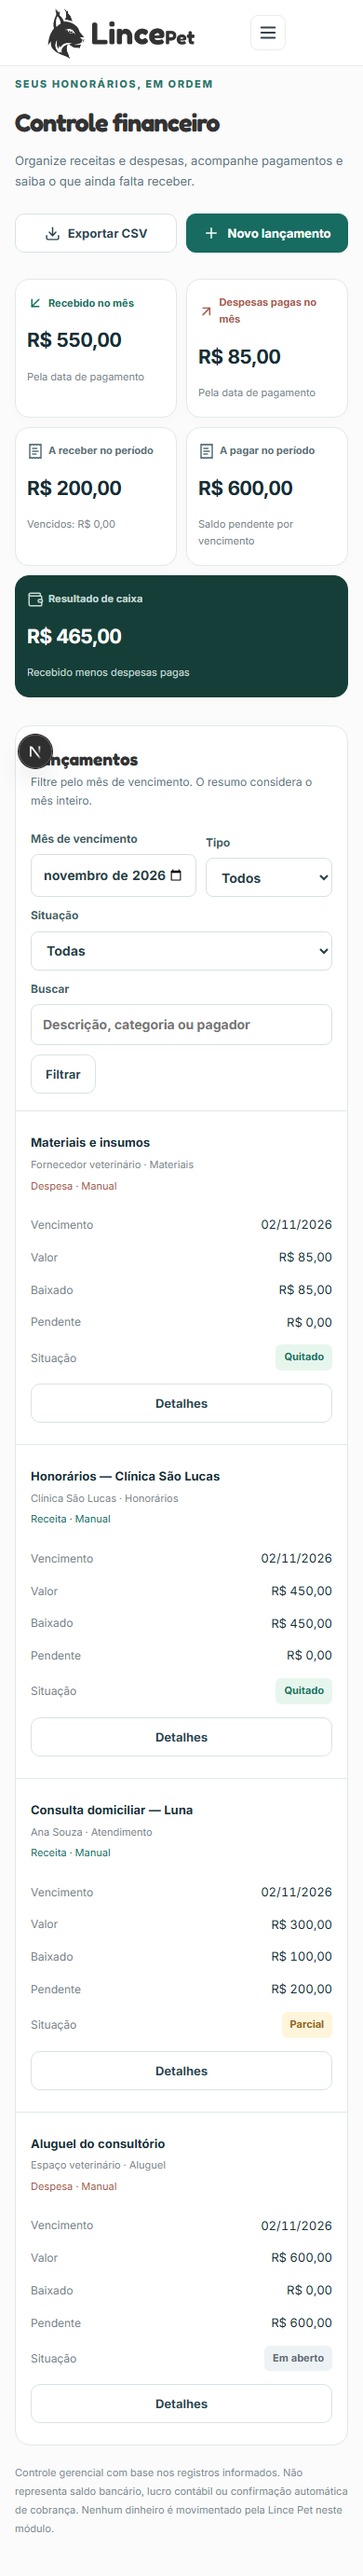
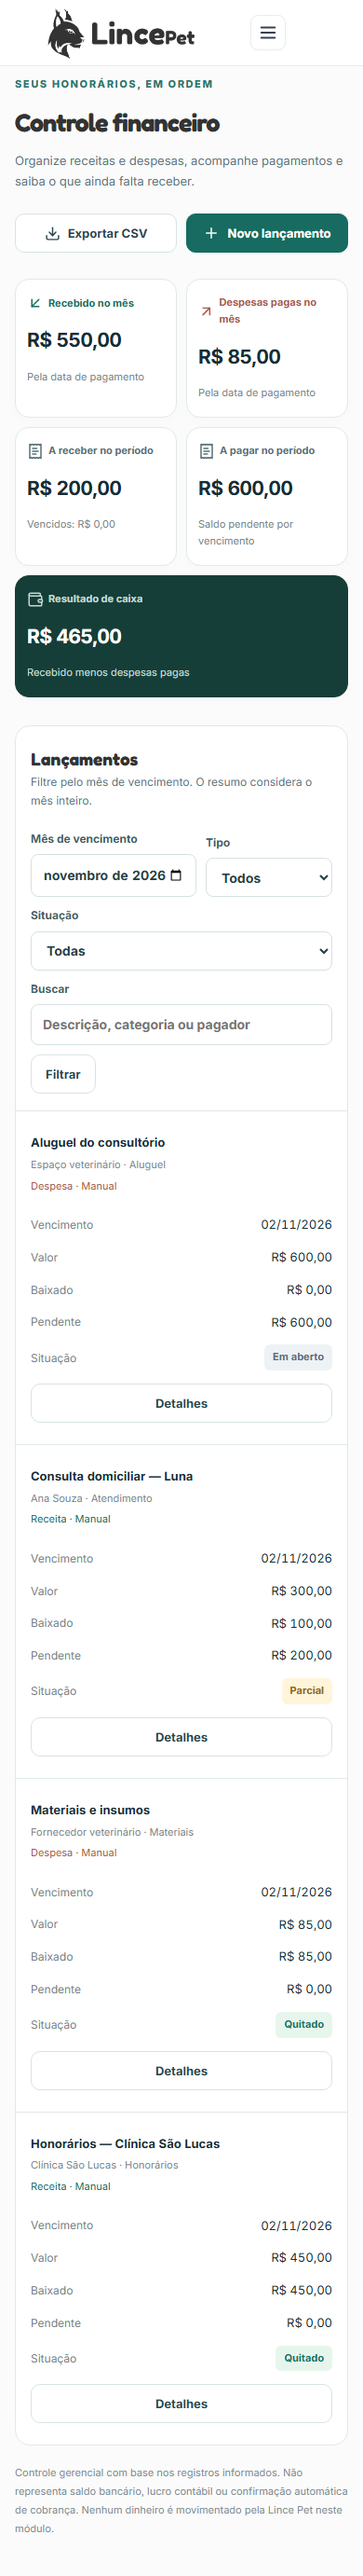
docs: registrar homologacao do financeiro no artefato de producao

diff --git a/docs/CONTROLE-FINANCEIRO-2026-11-02.md b/docs/CONTROLE-FINANCEIRO-2026-11-02.md
@@ -59,6 +59,8 @@ Executados para veterinário e clínica, com frontend, API e PostgreSQL locais r
 
 `npx playwright test e2e/financeiro.spec.ts --project=chromium`: **18 passaram**, sendo 11 cenários de financeiro e 7 preparações de sessão. DATABASE_URL e DIRECT_URL precisam apontar para PostgreSQL local na porta 5433. Regras puras em `tests/lib/financeiro.test.ts`: **6 passaram**. Suíte unitária completa: **1.711 passaram; 48 ignorados**, estes de contrato/integração que dependem de habilitação própria.
 
+A rodada final também passou com os mesmos 18 testes contra o artefato de produção local (`next start`), incluindo CSV com decimais brasileiros e rejeição de reenvio do mesmo identificador com dados diferentes. Os prints finais são dessa rodada. `npm run build` aprovado com Webpack; 49 avisos legados de lint, sem erros. O comando usa o fallback oficial `next build --webpack` após falha do loader de fontes Google no Turbopack local. Conferência SQL: as três tabelas estão com RLS habilitada e zero políticas públicas.
+
 ## Evidências
 
 Prints locais em [evidencias/financeiro-2026-11-02](evidencias/financeiro-2026-11-02): painel, celular, histórico, escolha de plano, recusa de excesso de pagamento e restrição de plano, para os dois perfis. Os prints comprovam homologação local; não comprovam publicação.
